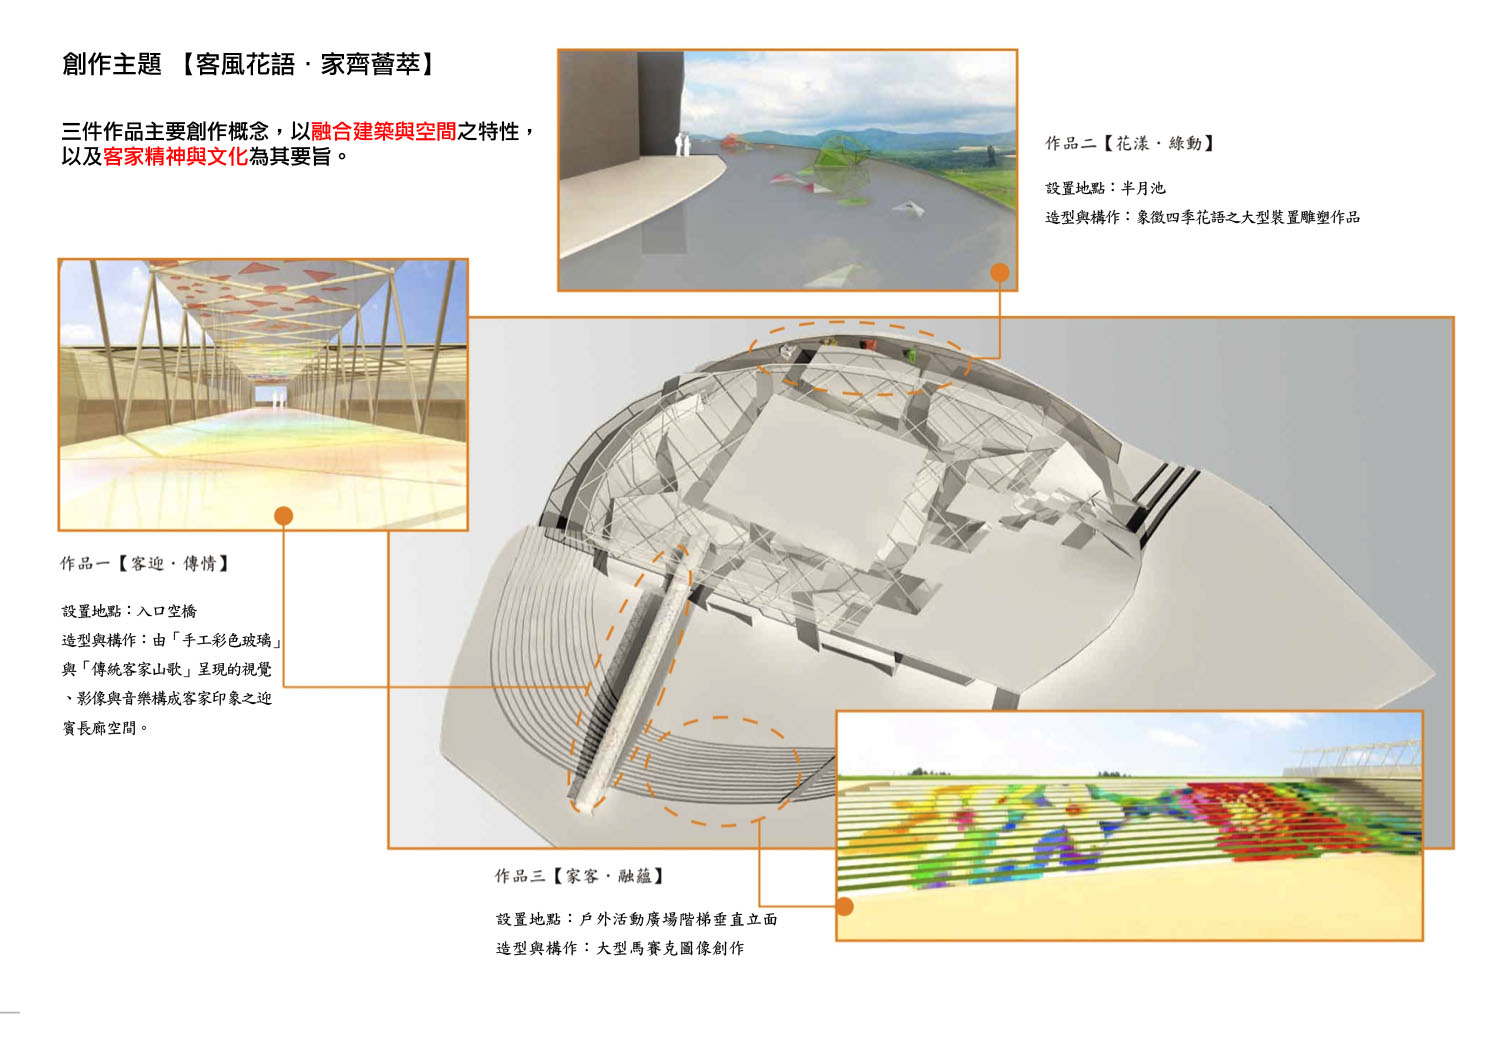
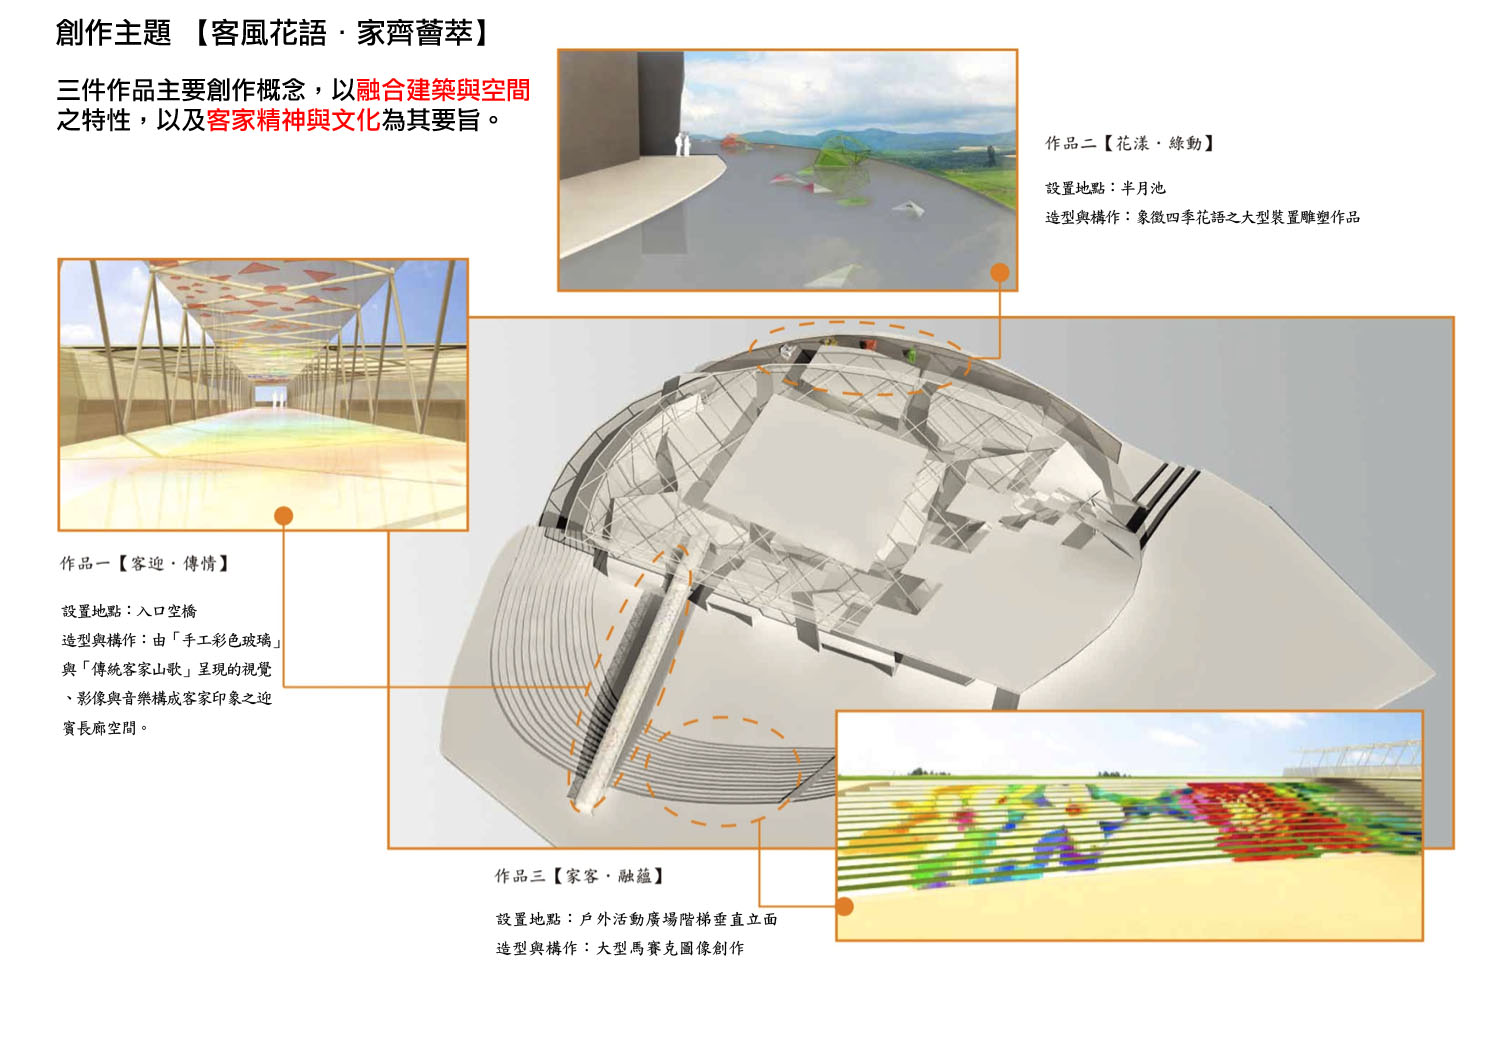
蠻敏感的

Changed region(s): [[0.0307, 0.0, 0.368, 0.1839]]

diff --git a/0_2.html b/0_2.html
@@ -2,11 +2,17 @@
     <head>
         <meta http-equiv="Content-Type" content="text/html; charset=utf-8">
             <title>Gopher</title>   
+    <style type="text/css">
+    .red {
+	color: #F00;
+}
+    </style>
     </head>
     <body bgcolor="#FFFFFF" text="#000000"  link="#00FFFF" vlink="#00ff00" alink="#FF0000">
         <font size="3">
-            <strong>設置地點：</strong>半月池<br />造型與構作：象徵四季花語之大型裝置雕塑<br />
-            <strong>創作人：</strong>劉得劭、江薦新、林維源<br />
-        <strong>創作理念：</strong>作品以建築之主要構成為基底出發，利用多種三角玻璃面創作出一整體律動之玻璃裝置雕塑，以四季為概念，抽象地且具趣味性的翻摺造型構成，每個角度皆呈現出不同的造型，在某一個特定視角結合水池之水面反射可以呈現出“花朵”意象，分別以顏色（春綠、夏紅、秋黃、冬白）及造型象徵春、夏、秋、冬四季與春耕、夏耘、秋收、冬藏的整體節氣意象。 </font>
+            <strong>設置地點：</strong>半月池<br />
+            造型與構作：象徵四季花語之大型裝置雕塑<br />
+            <strong>創作人：</strong><em>劉得劭</em>、<em>江薦新</em>、<em>林維源</em><br />
+        <strong>創作理念：</strong>作品以建築之主要構成為基底出發，利用多種三角玻璃面創作出一整體律動之玻璃裝置雕塑，以四季為概念，抽象地且具趣味性的翻摺造型構成，每個角度皆呈現出不同的造型，在某一個特定視角結合水池之水面反射可以呈現出“花朵”意象，分別以顏色（<span class="red">春綠</span>、<span class="red">夏紅</span>、<span class="red">秋黃</span>、<span class="red">冬白</span>）及造型象徵春、夏、秋、冬四季與春耕、夏耘、秋收、冬藏的整體節氣意象。 </font>
     </body>
 </html>

diff --git a/0_3.html b/0_3.html
@@ -2,12 +2,17 @@
     <head>
         <meta http-equiv="Content-Type" content="text/html; charset=utf-8">
             <title>Gopher</title>   
-            </head>
+            <style type="text/css">
+            .red {
+	color: #F00;
+}
+            </style>
+    </head>
     <body bgcolor="#FFFFFF" text="#000000"  link="#00FFFF" vlink="#00ff00" alink="#FF0000">
-        <font size="3">
+    <font size="3">
             <strong>設置地點：</strong>戶外活動廣場階梯垂直立面(兩座行人樓梯之間)<br />
             <strong>造型與構作：</strong>大型馬賽克圖像創作<br />
-            <strong>創作人：</strong>黃耿茂、林士哲<br />
-        <strong>創作理念：</strong>為表達客家與時俱進不斷融合的精神，我們選用牡丹以及油桐作為創作的元素。以馬賽克方式拼組成大型的「牡丹花」和「油桐花」圖像，放置於前廣場的階梯立面上，花卉的爭艷以及震撼的視覺效果不僅可牽動觀眾的情緒，也傳遞了客家人隨遇而安和族群圓滿的生存精神。繽紛的花卉色彩增添了入口廣場的活潑與熱鬧氣氛，也賦予堅硬的水泥階梯較柔性的視覺感知。 </font>
+            <strong>創作人：</strong><em>黃耿茂</em>、<em>林士哲</em><br />
+    <strong>創作理念：</strong>為表達客家與時俱進不斷融合的精神，我們選用牡丹以及油桐作為創作的元素。以馬賽克方式拼組成大型的「<span class="red">牡丹花</span>」和「<span class="red">油桐花</span>」圖像，放置於前廣場的階梯立面上，花卉的爭艷以及震撼的視覺效果不僅可牽動觀眾的情緒，也傳遞了客家人隨遇而安和族群圓滿的生存精神。繽紛的花卉色彩增添了入口廣場的活潑與熱鬧氣氛，也賦予堅硬的水泥階梯較柔性的視覺感知。 </font>
     </body>
 </html>

diff --git a/0_1.html b/0_1.html
@@ -2,12 +2,16 @@
 <head>
 <meta http-equiv="Content-Type" content="text/html; charset=utf-8">
 <title>Gopher</title>   
+<style type="text/css">
+.red {
+	color: #F00;
+}
+</style>
 </head>
 <body bgcolor="#FFFFFF" text="#000000" link="#00FFFF" vlink="#00ff00" alink="#FF0000">
 <p><font size="3"><strong>設置地點：</strong>入口空橋<br />
-  <strong>造型與構作：</strong>由「手工彩色玻璃」與「傳統客家山歌」呈現的視覺、影像與音樂構成客家印象之迎賓長廊空間。<br />
-  <strong>創作人：</strong>劉得劭、江薦新、林維源<br />
-  <strong>音樂創作：</strong>江薦新、王榆鈞。</font>
-</p>
+  <strong>造型與構作：</strong>由「<span class="red">手工彩色玻璃</span>」與「<span class="red">傳統客家山歌</span>」呈現的視覺、影像與音樂構成客家印象之迎賓長廊空間<br />
+  <strong>創作人：</strong><em>劉得劭</em>、<em>江薦新</em>、<em>林維源</em><br />
+  <strong>音樂創作：</strong><em>江薦新</em>、<em>王榆鈞</em></font></p>
 </body>
 </html>

diff --git a/Classes/SecondDetailViewController.m b/Classes/SecondDetailViewController.m
@@ -341,13 +341,13 @@ UIInterfaceOrientation whatNow;
         {
             switch (cellIndex) {
                 case 1:
-                    scrollView.contentSize = CGSizeMake( (applicationFrame.size.width<=imageView.view.bounds.size.width?imageView.view.bounds.size.width:applicationFrame.size.width), (applicationFrame.size.height <= theHeight?theHeight:applicationFrame.size.height) );  
+                    scrollView.contentSize = CGSizeMake( (applicationFrame.size.width<=imageView.view.bounds.size.width?imageView.view.bounds.size.width:applicationFrame.size.width), (applicationFrame.size.height <= theHeight?theHeight:applicationFrame.size.height+50) );  
                     break;
                 case 2:
                     scrollView.contentSize = CGSizeMake( (applicationFrame.size.width<=imageView.view.bounds.size.width?imageView.view.bounds.size.width:applicationFrame.size.width), (applicationFrame.size.height <= theHeight?theHeight:applicationFrame.size.height+130) );  
                     break;
                 case 3:
-                    scrollView.contentSize = CGSizeMake( (applicationFrame.size.width<=imageView.view.bounds.size.width?imageView.view.bounds.size.width:applicationFrame.size.width), (applicationFrame.size.height <= theHeight?theHeight:applicationFrame.size.height) );  
+                    scrollView.contentSize = CGSizeMake( (applicationFrame.size.width<=imageView.view.bounds.size.width?imageView.view.bounds.size.width:applicationFrame.size.width), (applicationFrame.size.height <= theHeight?theHeight:applicationFrame.size.height+50) );  
                     break;
             }
             
